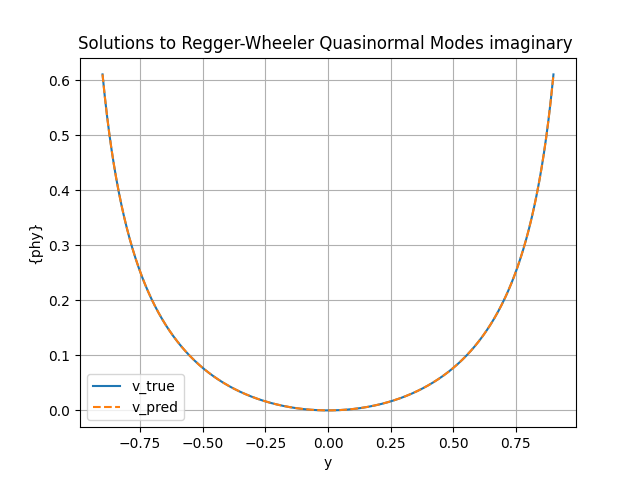
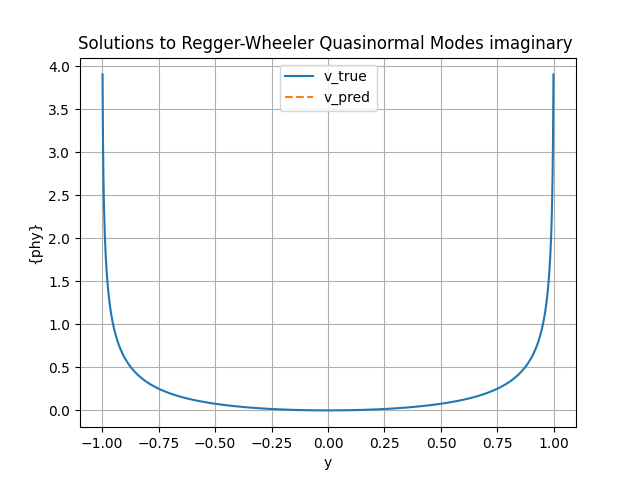
changes in analytic solution

diff --git a/R-W-inverse_problem.py b/R-W-inverse_problem.py
@@ -22,13 +22,26 @@ def gen_traindata_i(N):
 
 #Soluciones analiticas real e imaginaria 
 def func_r(y):
+    '''
+    Soluciones dependiendo el modo 
+    n = 0 : (tf.math.sqrt(tf.math.cosh(x)) * tf.math.cos(tf.math.log(tf.math.cosh(x)) * 0.5))
+    n = 1 : n(0) * tf.math.sinh(x) 
+    n = 2 : n(0) * (3.0*(tf.math.sinh(x)**2) + 1.0) //// im : tf.math.sinh(x)**2
+    n = 3 : n(0) * (5/3 * tf.math.sinh(x)**3 + tf.math.sinh(x))
+    '''
     x = tf.math.atanh(y)
-    return  (tf.math.sqrt(tf.math.cosh(x)) * tf.math.cos(tf.math.log(tf.math.cosh(x)) * 0.5))# * P_n (sinh(y))
+    return  (tf.math.sqrt(tf.math.cosh(x)) * tf.math.cos(tf.math.log(tf.math.cosh(x)) * 0.5)) * (3.0*(tf.math.sinh(x)**2) + 1.0)
 
 def func_i(y):
+    '''
+    Soluciones dependiendo el modo 
+    n = 0 : (tf.math.sqrt(tf.math.cosh(x)) * tf.math.sin(tf.math.log(tf.math.cosh(x)) * 0.5))
+    n = 1 : n(0) * tf.math.sinh(x) 
+    n = 2 : n(0) * tf.math.sinh(x)**2
+    n = 3 : n(0) * (1/3 * tf.math.sinh(x)**3)
+    '''
     x = tf.math.atanh(y)
-    return  tf.math.sqrt(tf.math.cosh(x)) * tf.math.sin(tf.math.log(tf.math.cosh(x)) * 0.5)#* P_n ( sinh(y) )
-
+    return  tf.math.sqrt(tf.math.cosh(x)) * tf.math.sin(tf.math.log(tf.math.cosh(x)) * 0.5) * tf.math.sinh(x)**2
 #Ecuacion diferencial
 def PDE(y,x):
     # funcion real e imaginaria
@@ -69,7 +82,7 @@ y_values, v_values = gen_traindata_i(50)
 exp_data_i = dde.icbc.PointSetBC(y_values, v_values, component=1) #valores w imaginario
 
 #Datos De entrenamiento
-data = dde.data.PDE(geom, PDE, [ic_u, ic_v, exp_data_r, exp_data_i], 100, 30, num_test=600,
+data = dde.data.PDE(geom, PDE, [ic_u, ic_v ,exp_data_r, exp_data_i], num_domain=100, num_boundary=30, num_test=200,
                     train_distribution='pseudo', anchors=y_values)
 
 #Red neuronal
@@ -86,7 +99,7 @@ variable = dde.callbacks.VariableValue([w_r,w_i], period=1000)
 #pde_resampler = dde.callbacks.PDEPointResampler(period=100)
 
 model.compile("adam", lr=1e-3, external_trainable_variables=[w_i,w_r])
-loss_history, train_state = model.train(iterations=20000, callbacks=[variable])
+loss_history, train_state = model.train(iterations=10000, callbacks=[variable])
 
 # Optimizador L-BFGS para ajustar la ecuación diferencial (no ajusta w^2)
 dde.optimizers.config.set_LBFGS_options(maxiter=10000)
@@ -94,8 +107,9 @@ model.compile("L-BFGS", external_trainable_variables=[w_i,w_r])
 losshistory, train_state = model.train(callbacks=[variable])
 
 #Parametros calculados
+N = 2
 W_r_esp = 1/2
-W_i_esp = -3/2
+W_i_esp = -(N + 1/2)
 print('Esperados: ','W_r_est = ',W_r_esp, "  W_i_est =", W_i_esp)
 w_r_est, w_i_est = variable.get_value()
 print('Predichos: ','w_r_ = ',w_r_est, "  w_i =", w_i_est)
@@ -120,7 +134,7 @@ plt.figure()
 plt.plot(x, f_u, "-", label="u_true")
 plt.plot(x, u_pred, "--", label="u_pred")
 
-plt.title("Solutions to Regger-Wheeler Quasinormal Modes real")
+plt.title("Solutions to Regger-Wheeler Quasinormal Modes real part")
 plt.xlabel("y")
 plt.ylabel('{\phy}')
 plt.legend()
@@ -149,3 +163,5 @@ plt.legend()
 plt.grid()
 plt.savefig("both grafics")
 plt.show()
+
+
